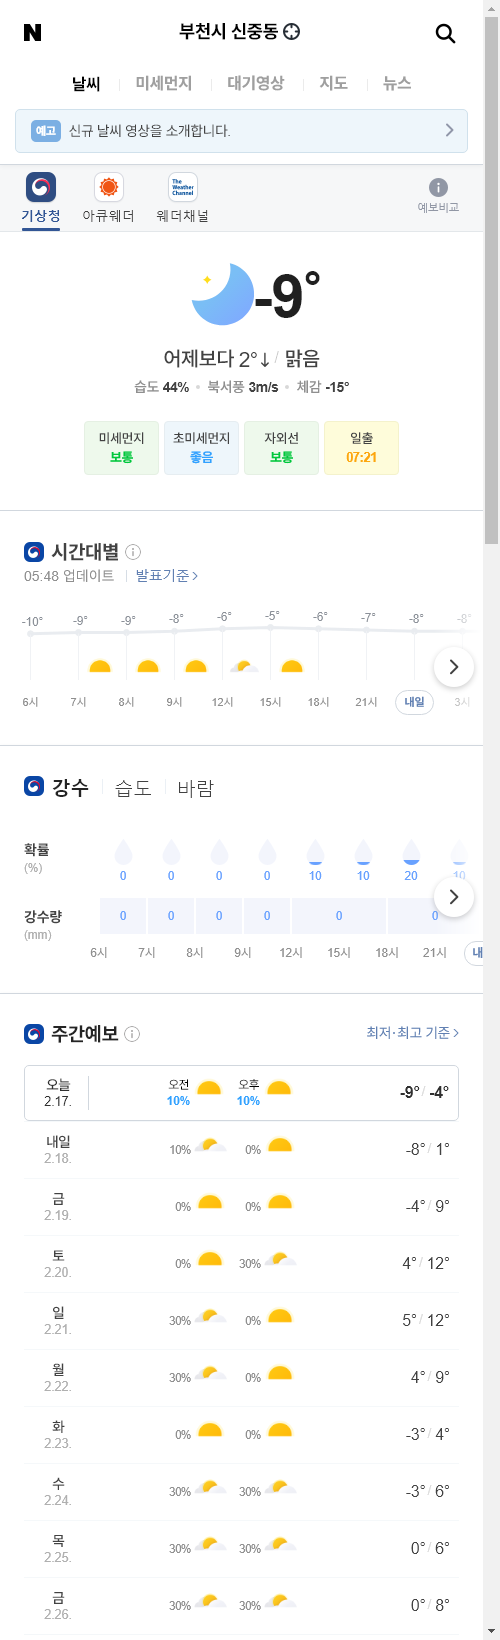
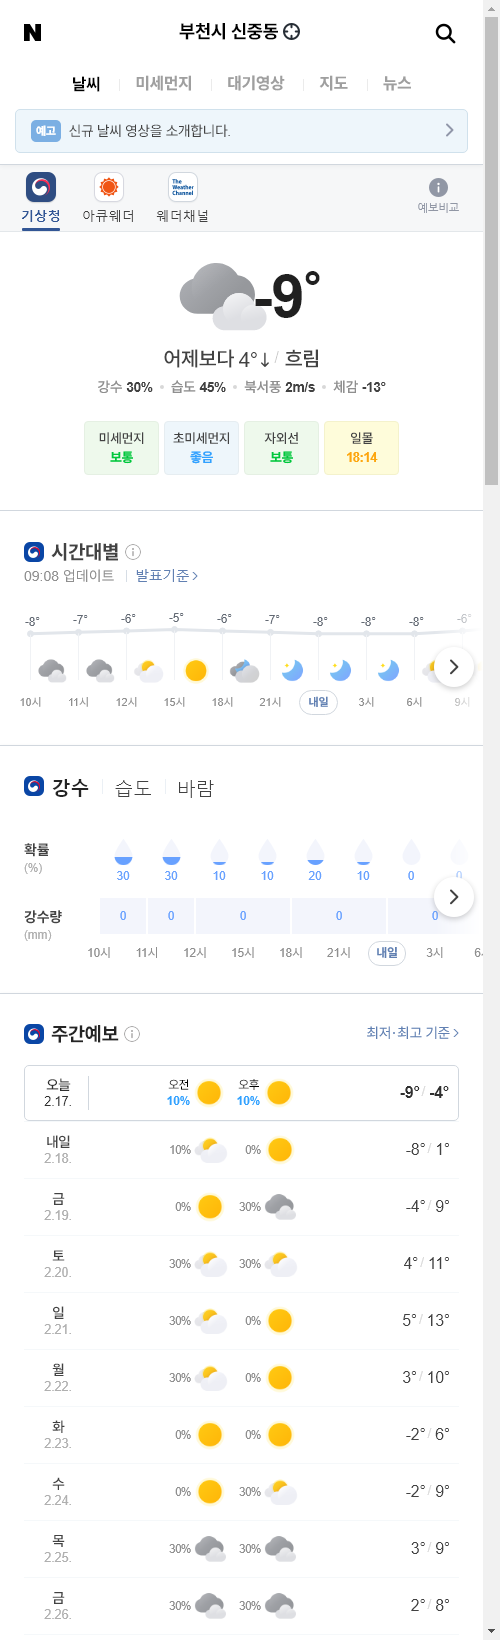
update result

diff --git a/README.md b/README.md
@@ -1,5 +1,5 @@
-##  2021-02-17 05:54:33   수요일 
-##### 날씨   -   어제보다 2° 낮아요맑음  
+##  2021-02-17 09:16:44   수요일 
+##### 날씨   -   어제보다 4° 낮아요흐림  
 <center><img src="../img/naver_weather_week.png"></center>
 ----
 ----
@@ -13,9 +13,9 @@
 ##### 세계
 <table border="1" bordercolor="blue" align = "center" >
 <tr align = "right" > <td>Item</td><td>Point</td><td>Diff</td><td>Rate</td><td>Buy</td><td>Sell</td><td>...</td>  </tr>
-<tr align = "right" > <td>DOW</td><td>31,526.54</td><td>68.14</td><td><font size="3" color="red" >0.22%</font></td><td><font size="3" color="black">0</font></td><td><font size="3" color="black">0</font></td><td>0</td>  </tr>
-<tr align = "right" > <td>NASDAQ</td><td>14,052.24</td><td>-43.23</td><td><font size="3" color="blue" >-0.31%</font></td><td><font size="3" color="black">0</font></td><td><font size="3" color="black">0</font></td><td>0</td>  </tr>
-<tr align = "right" > <td>S&P</td><td>3,934.61</td><td>-0.22</td><td><font size="3" color="blue" >-0.01%</font></td><td><font size="3" color="black">0</font></td><td><font size="3" color="black">0</font></td><td>0</td>  </tr>
+<tr align = "right" > <td>DOW</td><td>31,522.75</td><td>64.35</td><td><font size="3" color="red" >0.2%</font></td><td><font size="3" color="black">0</font></td><td><font size="3" color="black">0</font></td><td>0</td>  </tr>
+<tr align = "right" > <td>NASDAQ</td><td>14,047.5</td><td>-47.97</td><td><font size="3" color="blue" >-0.34%</font></td><td><font size="3" color="black">0</font></td><td><font size="3" color="black">0</font></td><td>0</td>  </tr>
+<tr align = "right" > <td>S&P</td><td>3,932.59</td><td>-2.24</td><td><font size="3" color="blue" >-0.06%</font></td><td><font size="3" color="black">0</font></td><td><font size="3" color="black">0</font></td><td>0</td>  </tr>
 <tr align = "right" > <td>SHANHAI</td><td>3,655.09</td><td>51.6</td><td><font size="3" color="red" >1.43%</font></td><td><font size="3" color="black">0</font></td><td><font size="3" color="black">0</font></td><td>0</td>  </tr>
 <tr align = "right" > <td>INDIA</td><td>52,104.17</td><td>-49.96</td><td><font size="3" color="blue" >-0.1%</font></td><td><font size="3" color="black">0</font></td><td><font size="3" color="black">0</font></td><td>0</td>  </tr>
 </table>
@@ -23,33 +23,33 @@
 ##### 시장
 <table border="1" bordercolor="blue" align = "center" >
 <tr align = "right" > <td>Item</td><td>Price</td><td>Diff</td><td>Rate</td><td>Buy</td><td>Sell</td><td>...</td>  </tr>
-<tr align = "right" > <td>USD</td><td>1,102.0</td><td>-0.5</td><td><font size="3" color="blue">-0.05%</font></td><td><font size="3" color="orangered">1,110</font></td><td><font size="3" color="black">0</font></td><td>0</td>  </tr>
-<tr align = "right" > <td>WTI</td><td>59.47</td><td>1.23</td><td><font size="3" color="red">2.11%</font></td><td><font size="3" color="black">29.0</font></td><td><font size="3" color="black">0</font></td><td>0</td>  </tr>
-<tr align = "right" > <td>GOLD</td><td>1,821.0</td><td>-3.3</td><td><font size="3" color="blue">-0.18%</font></td><td><font size="3" color="black">0</font></td><td><font size="3" color="black">0</font></td><td>0</td>  </tr>
+<tr align = "right" > <td>USD</td><td>1,109.0</td><td>7.7</td><td><font size="3" color="red">0.7%</font></td><td><font size="3" color="orangered">1,110</font></td><td><font size="3" color="black">0</font></td><td>0</td>  </tr>
+<tr align = "right" > <td>WTI</td><td>60.05</td><td>0.58</td><td><font size="3" color="red">0.97%</font></td><td><font size="3" color="black">29.0</font></td><td><font size="3" color="black">0</font></td><td>0</td>  </tr>
+<tr align = "right" > <td>GOLD</td><td>1,797.0</td><td>-24.4</td><td><font size="3" color="blue">-1.33%</font></td><td><font size="3" color="black">0</font></td><td><font size="3" color="black">0</font></td><td>0</td>  </tr>
 </table>
 ----
 ##### 주가
 <table border="1" bordercolor="blue" align = "center" >
 <tr align = "right" > <td>Item</td><td>Price</td><td>Diff</td><td>Rate</td><td>Purchased</td><td>Sell</td><td>Buy</td>  </tr>
-<tr align = "right" > <td>한국 전력</td><td>23,550</td><td>-200</td><td><font size="3" color="blue">-0.84%</font></td><td>25,720</td><td><font size="3" color="black">27,700</font></td><td><font size="3" color="black">20,700</font></td>  </tr>
-<tr align = "right" > <td>삼성엔지니어.</td><td>13,300</td><td>-150</td><td><font size="3" color="blue">-1.12%</font></td><td>18,935</td><td><font size="3" color="black">20,000</font></td><td><font size="3" color="black">8,000</font></td>  </tr>
-<tr align = "right" > <td>CJ CGV</td><td>27,050</td><td>-350</td><td><font size="3" color="blue">-1.28%</font></td><td>34,895</td><td><font size="3" color="black">36,000</font></td><td><font size="3" color="black">0</font></td>  </tr>
-<tr align = "right" > <td>아모레퍼시픽</td><td>233,000</td><td>500</td><td><font size="3" color="red">0.22%</font></td><td>235,350</td><td><font size="3" color="black">240,000</font></td><td><font size="3" color="black">130,000</font></td>  </tr>
-<tr align = "right" > <td>한화</td><td>33,800</td><td>150</td><td><font size="3" color="red">0.45%</font></td><td>25,550</td><td><font size="3" color="black">26,250</font></td><td><font size="3" color="black">26,250</font></td>  </tr>
-<tr align = "right" > <td>NAVER</td><td>394,000</td><td>8,500</td><td><font size="3" color="red">2.2%</font></td><td>147,200</td><td><font size="3" color="black">386,000</font></td><td><font size="3" color="black">286,000</font></td>  </tr>
-<tr align = "right" > <td>LG 화학우</td><td>469,000</td><td>-9,500</td><td><font size="3" color="blue">-1.99%</font></td><td>202,490</td><td><font size="3" color="black">384,000</font></td><td><font size="3" color="black">384,000</font></td>  </tr>
-<tr align = "right" > <td>스튜디오드래.</td><td>100,400</td><td>500</td><td><font size="3" color="red">0.5%</font></td><td>81,243</td><td><font size="3" color="black">85,200</font></td><td><font size="3" color="black">85,200</font></td>  </tr>
-<tr align = "right" > <td>QV미국IT</td><td>27,060</td><td>60</td><td><font size="3" color="red">0.22%</font></td><td>0</td><td><font size="3" color="black">30,000</font></td><td><font size="3" color="black">20,000</font></td>  </tr>
-<tr align = "right" > <td>삼성 전자우</td><td>76,200</td><td>700</td><td><font size="3" color="red">0.93%</font></td><td>48,250</td><td><font size="3" color="black">56,000</font></td><td><font size="3" color="black">45,000</font></td>  </tr>
-<tr align = "right" > <td>LS</td><td>72,000</td><td>2,100</td><td><font size="3" color="red">3.0%</font></td><td>71,400</td><td><font size="3" color="black">82,000</font></td><td><font size="3" color="black">60,000</font></td>  </tr>
-<tr align = "right" > <td>한화에어로스.</td><td>42,900</td><td>-1,500</td><td><font size="3" color="blue">-3.38%</font></td><td>25,700</td><td><font size="3" color="black">30,000</font></td><td><font size="3" color="black">24,000</font></td>  </tr>
-<tr align = "right" > <td>카카오</td><td>514,000</td><td>12,000</td><td><font size="3" color="red">2.39%</font></td><td>405,500</td><td><font size="3" color="black">440,000</font></td><td><font size="3" color="black">400,000</font></td>  </tr>
-<tr align = "right" > <td>호텔 신라</td><td>82,000</td><td>300</td><td><font size="3" color="red">0.37%</font></td><td>72,800</td><td><font size="3" color="black">100,000</font></td><td><font size="3" color="black">70,000</font></td>  </tr>
-<tr align = "right" > <td>S-Oil</td><td>88,200</td><td>-500</td><td><font size="3" color="blue">-0.56%</font></td><td>62,842</td><td><font size="3" color="black">100,000</font></td><td><font size="3" color="black">50,000</font></td>  </tr>
-<tr align = "right" > <td>LG전자</td><td>172,500</td><td>7,500</td><td><font size="3" color="red">4.55%</font></td><td>82,022</td><td><font size="3" color="black">100,000</font></td><td><font size="3" color="black">60,000</font></td>  </tr>
-<tr align = "right" > <td>지역난방공사</td><td>38,800</td><td>150</td><td><font size="3" color="red">0.39%</font></td><td>43,590</td><td><font size="3" color="black">60,000</font></td><td><font size="3" color="black">30,000</font></td>  </tr>
-<tr align = "right" > <td>KOEDX은행</td><td>6,400</td><td>-25</td><td><font size="3" color="blue">-0.39%</font></td><td>5,178</td><td><font size="3" color="black">6,225</font></td><td><font size="3" color="black">6,225</font></td>  </tr>
-<tr align = "right" > <td>글로벌럭셔리</td><td>15,965</td><td>140</td><td><font size="3" color="red">0.88%</font></td><td>15,260</td><td><font size="3" color="black">20,000</font></td><td><font size="3" color="black">10,000</font></td>  </tr>
-<tr align = "right" > <td>한국금융지주</td><td>90,400</td><td>-1,300</td><td><font size="3" color="blue">-1.42%</font></td><td>0</td><td><font size="3" color="black">82,000</font></td><td><font size="3" color="black">60,000</font></td>  </tr>
+<tr align = "right" > <td>한국 전력</td><td>24,000</td><td>450</td><td><font size="3" color="red">1.91%</font></td><td>25,720</td><td><font size="3" color="black">27,700</font></td><td><font size="3" color="black">20,700</font></td>  </tr>
+<tr align = "right" > <td>삼성엔지니어.</td><td>13,150</td><td>-150</td><td><font size="3" color="blue">-1.13%</font></td><td>18,935</td><td><font size="3" color="black">20,000</font></td><td><font size="3" color="black">8,000</font></td>  </tr>
+<tr align = "right" > <td>CJ CGV</td><td>26,800</td><td>-250</td><td><font size="3" color="blue">-0.92%</font></td><td>34,895</td><td><font size="3" color="black">36,000</font></td><td><font size="3" color="black">0</font></td>  </tr>
+<tr align = "right" > <td>아모레퍼시픽</td><td>227,000</td><td>-6,000</td><td><font size="3" color="blue">-2.58%</font></td><td>235,350</td><td><font size="3" color="black">240,000</font></td><td><font size="3" color="black">130,000</font></td>  </tr>
+<tr align = "right" > <td>한화</td><td>33,400</td><td>-400</td><td><font size="3" color="blue">-1.18%</font></td><td>25,550</td><td><font size="3" color="black">26,250</font></td><td><font size="3" color="black">26,250</font></td>  </tr>
+<tr align = "right" > <td>NAVER</td><td>390,500</td><td>-3,500</td><td><font size="3" color="blue">-0.89%</font></td><td>147,200</td><td><font size="3" color="black">386,000</font></td><td><font size="3" color="black">286,000</font></td>  </tr>
+<tr align = "right" > <td>LG 화학우</td><td>463,500</td><td>-5,500</td><td><font size="3" color="blue">-1.17%</font></td><td>202,490</td><td><font size="3" color="black">384,000</font></td><td><font size="3" color="black">384,000</font></td>  </tr>
+<tr align = "right" > <td>스튜디오드래.</td><td>101,900</td><td>1,500</td><td><font size="3" color="red">1.49%</font></td><td>81,243</td><td><font size="3" color="black">85,200</font></td><td><font size="3" color="black">85,200</font></td>  </tr>
+<tr align = "right" > <td>QV미국IT</td><td>26,830</td><td>-230</td><td><font size="3" color="blue">-0.85%</font></td><td>0</td><td><font size="3" color="black">30,000</font></td><td><font size="3" color="black">20,000</font></td>  </tr>
+<tr align = "right" > <td>삼성 전자우</td><td>75,700</td><td>-500</td><td><font size="3" color="blue">-0.66%</font></td><td>48,250</td><td><font size="3" color="black">56,000</font></td><td><font size="3" color="black">45,000</font></td>  </tr>
+<tr align = "right" > <td>LS</td><td>72,100</td><td>100</td><td><font size="3" color="red">0.14%</font></td><td>71,400</td><td><font size="3" color="black">82,000</font></td><td><font size="3" color="black">60,000</font></td>  </tr>
+<tr align = "right" > <td>한화에어로스.</td><td>41,750</td><td>-1,150</td><td><font size="3" color="blue">-2.68%</font></td><td>25,700</td><td><font size="3" color="black">30,000</font></td><td><font size="3" color="black">24,000</font></td>  </tr>
+<tr align = "right" > <td>카카오</td><td>506,000</td><td>-8,000</td><td><font size="3" color="blue">-1.56%</font></td><td>405,500</td><td><font size="3" color="black">440,000</font></td><td><font size="3" color="black">400,000</font></td>  </tr>
+<tr align = "right" > <td>호텔 신라</td><td>82,400</td><td>400</td><td><font size="3" color="red">0.49%</font></td><td>72,800</td><td><font size="3" color="black">100,000</font></td><td><font size="3" color="black">70,000</font></td>  </tr>
+<tr align = "right" > <td>S-Oil</td><td>86,900</td><td>-1,300</td><td><font size="3" color="blue">-1.47%</font></td><td>62,842</td><td><font size="3" color="black">100,000</font></td><td><font size="3" color="black">50,000</font></td>  </tr>
+<tr align = "right" > <td>LG전자</td><td>169,000</td><td>-3,500</td><td><font size="3" color="blue">-2.03%</font></td><td>82,022</td><td><font size="3" color="black">100,000</font></td><td><font size="3" color="black">60,000</font></td>  </tr>
+<tr align = "right" > <td>지역난방공사</td><td>39,350</td><td>550</td><td><font size="3" color="red">1.42%</font></td><td>43,590</td><td><font size="3" color="black">60,000</font></td><td><font size="3" color="black">30,000</font></td>  </tr>
+<tr align = "right" > <td>KOEDX은행</td><td>6,495</td><td>95</td><td><font size="3" color="red">1.48%</font></td><td>5,178</td><td><font size="3" color="black">6,225</font></td><td><font size="3" color="black">6,225</font></td>  </tr>
+<tr align = "right" > <td>글로벌럭셔리</td><td>16,080</td><td>115</td><td><font size="3" color="red">0.72%</font></td><td>15,260</td><td><font size="3" color="black">20,000</font></td><td><font size="3" color="black">10,000</font></td>  </tr>
+<tr align = "right" > <td>한국금융지주</td><td>90,200</td><td>-200</td><td><font size="3" color="blue">-0.22%</font></td><td>0</td><td><font size="3" color="black">82,000</font></td><td><font size="3" color="black">60,000</font></td>  </tr>
 </table>
 ----
